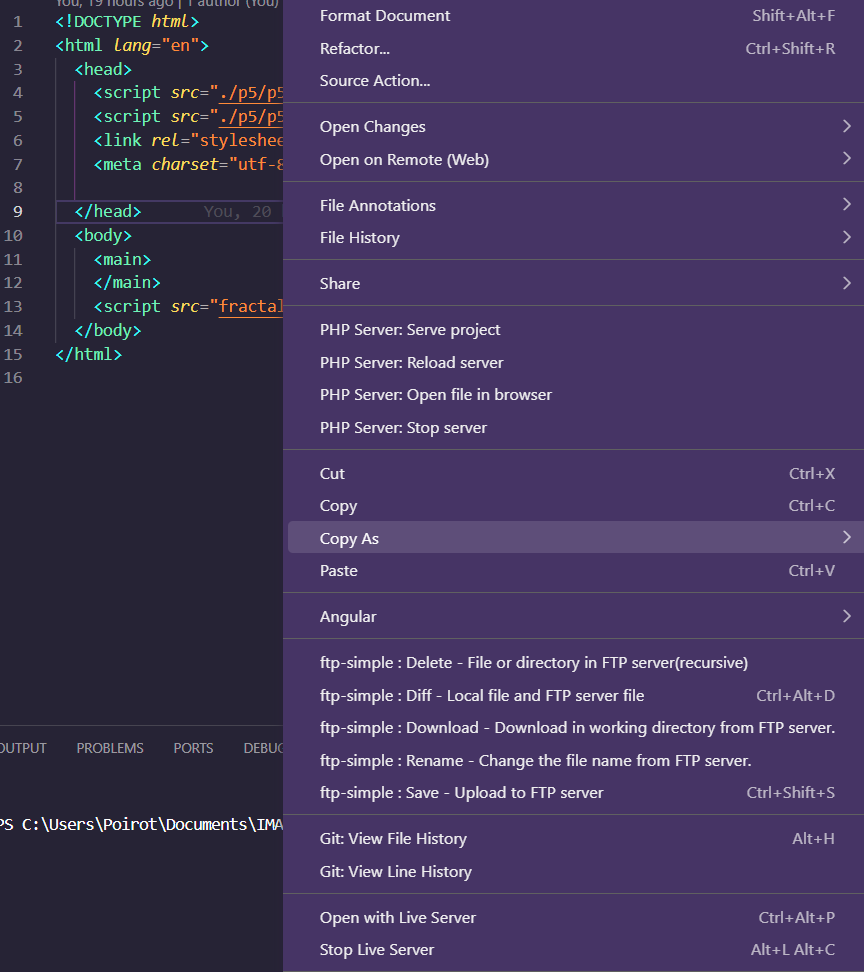
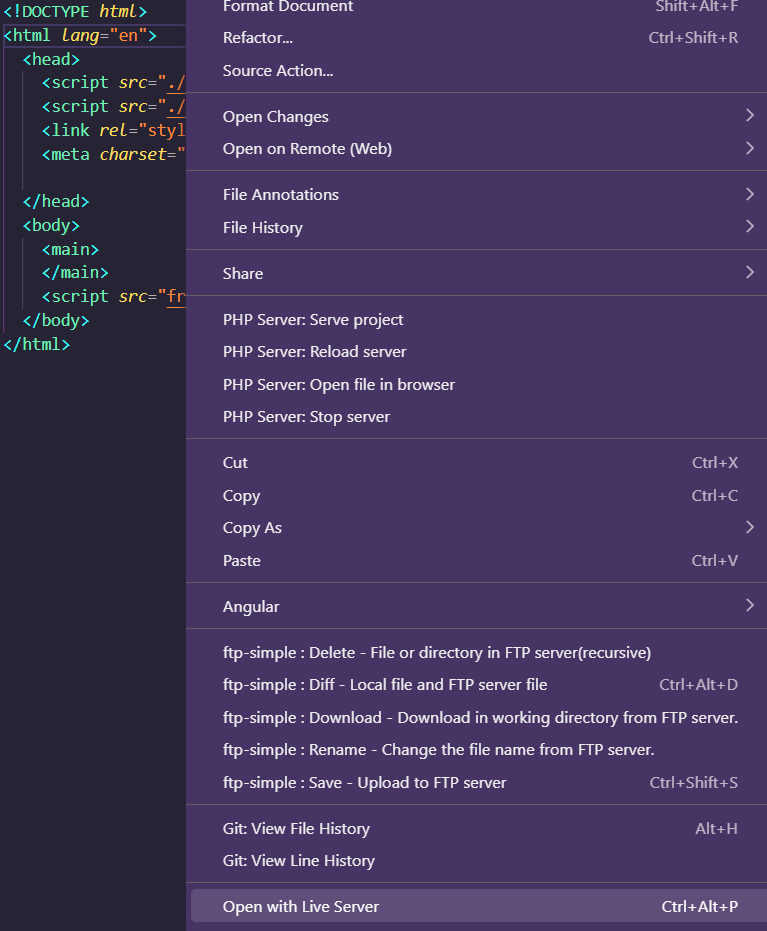
changement image instructions

diff --git a/README.md b/README.md
@@ -37,6 +37,7 @@ Ce projet présente des caractéristiques de fractale par sa récursivité / ré
 ### Local
 La présence de fichiers audios nécessite d'utiliser un serveur pour lancer le projet.
 Télecharger le dossier "fractals", et l'ouvrir avec VSCode. VSCode possède un petit serveur : faire un clic droit dans le fichier index.html, l'option "open with live server" devrait apparaître. Sinon, télecharger l'extension Live server sur VSCode.
-<img src="/launch-instructions/menu.png" alt="" style="width:600px;"/>
+
+<img src="/launch-instructions/menu.png" alt="" style="width:400px;"/>
 <img src="/launch-instructions/live-server.png" alt="" style="width:600px;"/>
 

diff --git a/fractals/README.md b/fractals/README.md
@@ -8,5 +8,6 @@ Ce projet présente des caractéristiques de fractale par sa récursivité / ré
 ### Local
 La présence de fichiers audios nécessite d'utiliser un serveur pour lancer le projet.
 Télecharger le dossier "fractals", et l'ouvrir avec VSCode. VSCode possède un petit serveur : faire un clic droit dans le fichier index.html, l'option "open with live server" devrait apparaître. Sinon, télecharger l'extension Live server sur VSCode.
-<img src="/launch-instructions/menu.png" alt="" style="width:600px;"/>
+
+<img src="/launch-instructions/menu.png" alt="" style="width:400px;"/>
 <img src="/launch-instructions/live-server.png" alt="" style="width:600px;"/>
